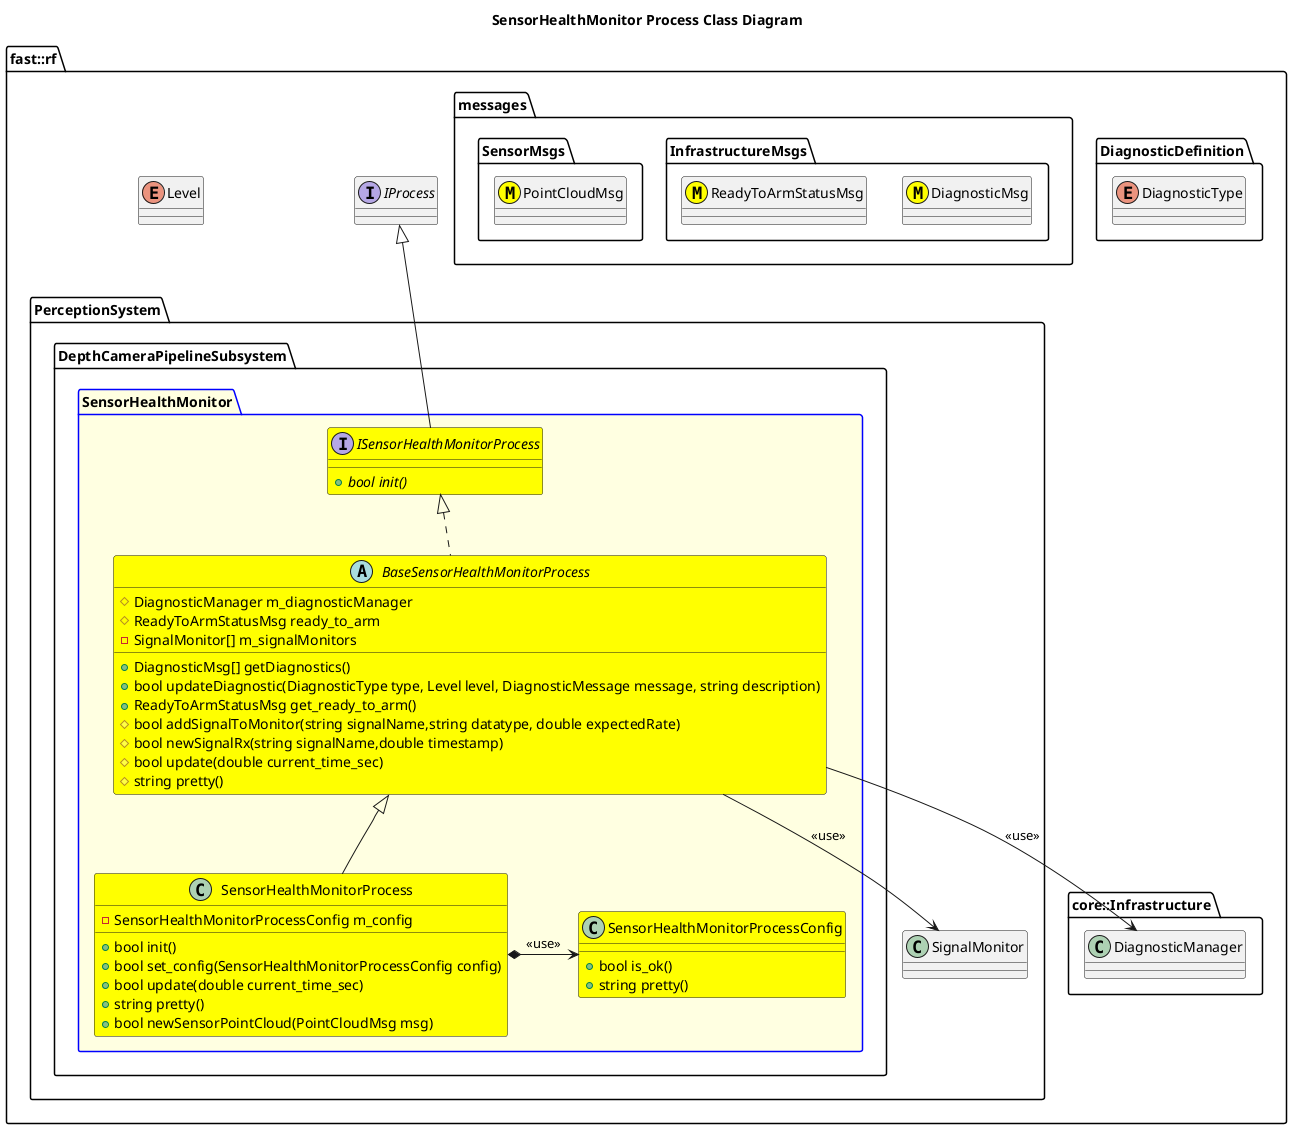
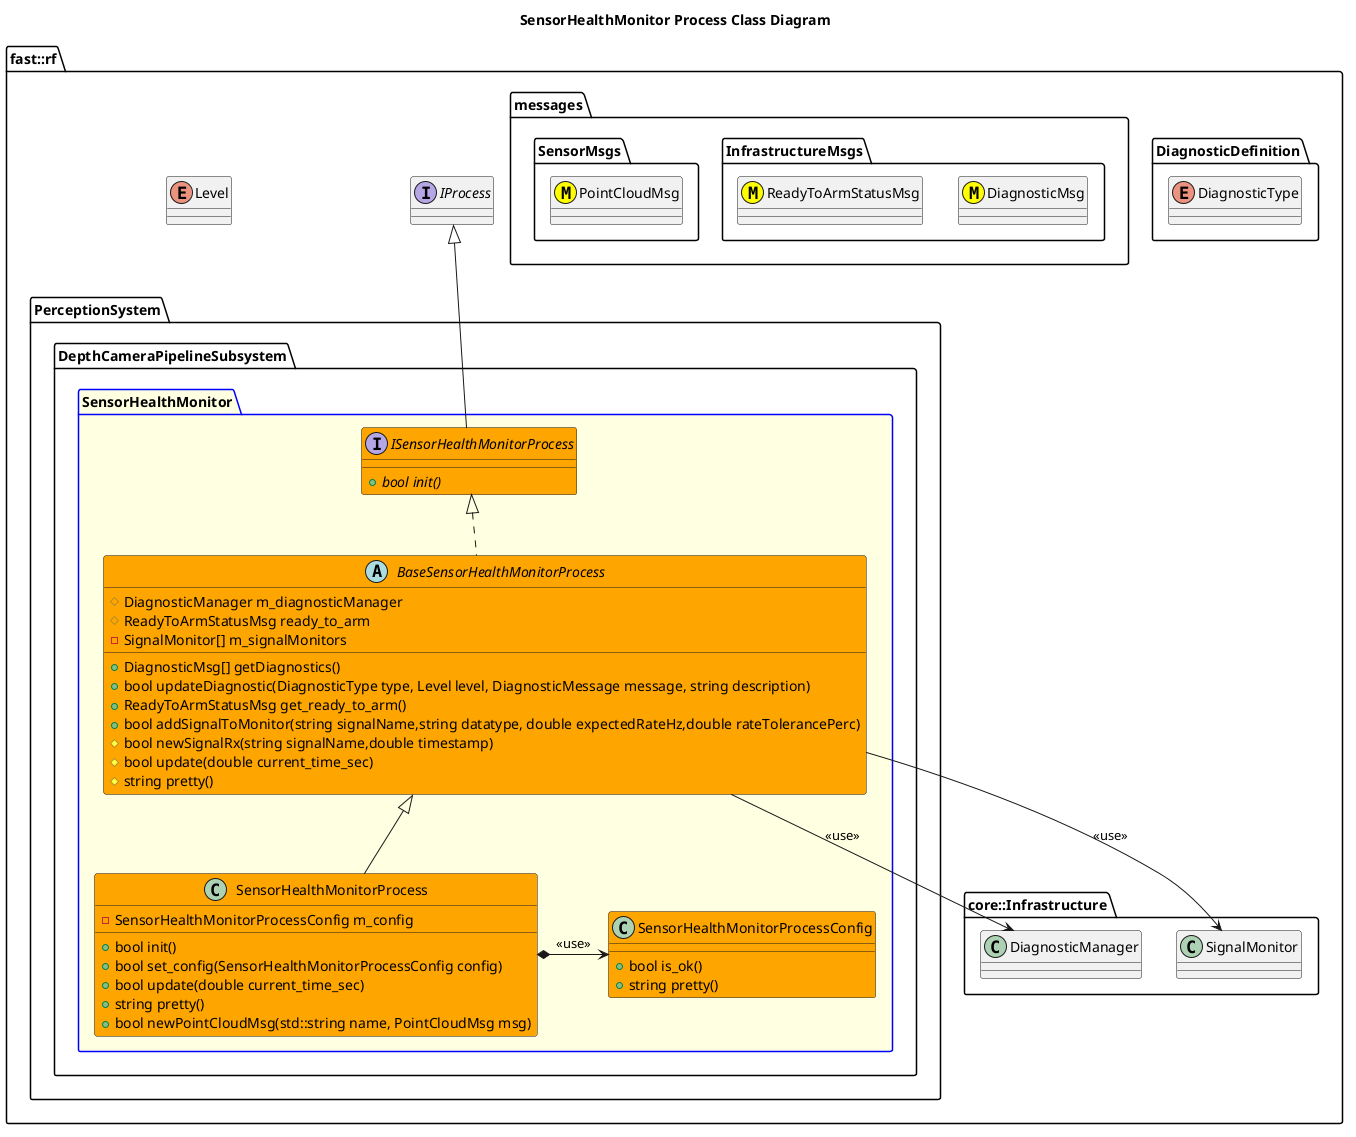
Updates

diff --git a/Systems/Perception/Subsystems/DepthCameraPipeline/Processes/SensorHealthMonitor/src/BaseSensorHealthMonitorProcess.cpp b/Systems/Perception/Subsystems/DepthCameraPipeline/Processes/SensorHealthMonitor/src/BaseSensorHealthMonitorProcess.cpp
@@ -16,13 +16,35 @@ namespace fast::rf::PerceptionSystem::DepthCameraPipelineSubsystem::SensorHealth
         } else {
             m_readyToArm.ready_to_arm = false;
         }
-
+        for (auto& signalMonitor : m_signalMonitors) {
+            signalMonitor.second.update(currentTimeSec);
+            auto status = signalMonitor.second.getStatus();
+            for (auto subSignal : status.subSignalStatus) {
+                m_diagnosticManager.updateDiagnostic(subSignal.second.diagnosticType, subSignal.second.level,
+                                                     subSignal.second.diagnosticMessage, "Signal Health");
+            }
+        }
         return true;
     }
     bool BaseSensorHealthMonitorProcess::initializeDiagnostics(
         std::vector<fast::rf::DiagnosticDefinition::DiagnosticType> diagnosticTypes) {
         bool status = m_diagnosticManager.initializeDiagnostics(diagnosticTypes);
         return status;
+    }
+    bool BaseSensorHealthMonitorProcess::addSignalToMonitor(std::string signalName, std::string datatype,
+                                                            double expectedRateHz, double rateTolerancePerc) {
+        fast::rf::core::infrastructure::SignalMonitor signal(signalName, datatype, expectedRateHz, rateTolerancePerc);
+        std::size_t before = m_signalMonitors.size();
+        m_signalMonitors[signalName] = signal;
+        std::size_t after = m_signalMonitors.size();
+        if (after > before) {
+            return true;
+        }
+        return false;
+    }
+
+    bool BaseSensorHealthMonitorProcess::newSignalRx(std::string signalName, double timestamp) {
+        return m_signalMonitors[signalName].newData(timestamp);
     }
     std::string BaseSensorHealthMonitorProcess::pretty() {
         std::string str = "\n---SensorHealthMonitor---\n";
@@ -35,7 +57,13 @@ namespace fast::rf::PerceptionSystem::DepthCameraPipelineSubsystem::SensorHealth
                "\n";
         str += "\tT: " + std::to_string(m_currentTimeSec) + "\n";
         str += "\tReady To Arm: " + std::to_string(m_readyToArm.ready_to_arm) + "\n";
-        str += m_diagnosticManager.pretty();
+        str += m_diagnosticManager.pretty() + "\n";
+        str += "Monitored Signals: " + std::to_string(m_signalMonitors.size()) + "\n";
+        uint16_t counter = 0;
+        for (auto signalMonitor : m_signalMonitors) {
+            str += "[" + std::to_string(counter) + "/" + std::to_string(m_signalMonitors.size()) + "] " +
+                   signalMonitor.second.pretty() + "\n";
+        }
 
         return str;
     }

diff --git a/Systems/Perception/Subsystems/DepthCameraPipeline/Processes/SensorHealthMonitor/include/BaseSensorHealthMonitorProcess.hpp b/Systems/Perception/Subsystems/DepthCameraPipeline/Processes/SensorHealthMonitor/include/BaseSensorHealthMonitorProcess.hpp
@@ -11,7 +11,9 @@
 #pragma once
 #include <ISensorHealthMonitorProcess.hpp>
 #include <Infrastructure/DiagnosticManager/DiagnosticManager.hpp>
+#include <Infrastructure/SignalMonitor/SignalMonitor.hpp>
 #include <RobotFrameworkDefinitions.hpp>
+#include <map>
 #include <vector>
 namespace fast::rf::PerceptionSystem::DepthCameraPipelineSubsystem::SensorHealthMonitor {
     /**
@@ -46,6 +48,9 @@ namespace fast::rf::PerceptionSystem::DepthCameraPipelineSubsystem::SensorHealth
          * @return fast::rf::messages::InfrastructureMsgs::ReadyToArmStatusMsg
          */
         fast::rf::messages::InfrastructureMsgs::ReadyToArmStatusMsg get_ready_to_arm() { return m_readyToArm; }
+
+        bool addSignalToMonitor(std::string signalName, std::string datatype, double expectedRateHz,
+                                double rateTolerancePerc);
 
        protected:
         /**
@@ -100,6 +105,8 @@ namespace fast::rf::PerceptionSystem::DepthCameraPipelineSubsystem::SensorHealth
 
         bool initializeDiagnostics(std::vector<fast::rf::DiagnosticDefinition::DiagnosticType> diagnostic_types);
 
+        bool newSignalRx(std::string signalName, double timestamp);
+
         uint8_t m_systemId{0};
         uint8_t m_subSystemId{0};
         uint8_t m_processId{0};
@@ -107,5 +114,8 @@ namespace fast::rf::PerceptionSystem::DepthCameraPipelineSubsystem::SensorHealth
         fast::rf::core::infrastructure::DiagnosticManager
             m_diagnosticManager;  //!< Entity responsible for managing diagnostics.
         fast::rf::messages::InfrastructureMsgs::ReadyToArmStatusMsg m_readyToArm;  //!< Ready to Arm object
+
+       private:
+        std::map<std::string, fast::rf::core::infrastructure::SignalMonitor> m_signalMonitors;
     };
 }  // namespace fast::rf::PerceptionSystem::DepthCameraPipelineSubsystem::SensorHealthMonitor

diff --git a/Systems/Perception/Subsystems/DepthCameraPipeline/Processes/SensorHealthMonitor/src/SensorHealthMonitorProcess.cpp b/Systems/Perception/Subsystems/DepthCameraPipeline/Processes/SensorHealthMonitor/src/SensorHealthMonitorProcess.cpp
@@ -4,7 +4,11 @@
  */
 #include <SensorHealthMonitorProcess.hpp>
 namespace fast::rf::PerceptionSystem::DepthCameraPipelineSubsystem::SensorHealthMonitor {
-
+    bool SensorHealthMonitorProcess::newPointCloudMsg(std::string name,
+                                                      fast::rf::messages::SensorMsgs::PointCloudMsg msg) {
+        bool status = newSignalRx(name, msg.time_stamp);
+        return status;
+    }
     bool SensorHealthMonitorProcess::init() {
         bool status = BaseSensorHealthMonitorProcess::init();
         if (status == false) {
@@ -12,11 +16,15 @@ namespace fast::rf::PerceptionSystem::DepthCameraPipelineSubsystem::SensorHealth
         }
         std::vector<fast::rf::DiagnosticDefinition::DiagnosticType> diagnosticTypes;
         diagnosticTypes.push_back(fast::rf::DiagnosticDefinition::DiagnosticType::SOFTWARE);
-        // Add more as needed
+        diagnosticTypes.push_back(fast::rf::DiagnosticDefinition::DiagnosticType::SENSORS);
+        diagnosticTypes.push_back(fast::rf::DiagnosticDefinition::DiagnosticType::TIMING);
         status = m_diagnosticManager.initializeDiagnostics(diagnosticTypes);
         return status;
     }
     bool SensorHealthMonitorProcess::update(double currentTimeSec) {
+        m_diagnosticManager.updateDiagnostic(fast::rf::DiagnosticDefinition::DiagnosticType::SOFTWARE,
+                                             fast::rf::Level::NOERROR,
+                                             fast::rf::DiagnosticDefinition::DiagnosticMessage::NOERROR, "No Error");
         bool status = BaseSensorHealthMonitorProcess::update(currentTimeSec);
         if (status == false) {
             return false;

diff --git a/Systems/Perception/Subsystems/DepthCameraPipeline/Processes/SensorHealthMonitor/src/test/test_sensorHealthMonitorProcess.cpp b/Systems/Perception/Subsystems/DepthCameraPipeline/Processes/SensorHealthMonitor/src/test/test_sensorHealthMonitorProcess.cpp
@@ -18,7 +18,6 @@ TEST(SensorHealthMonitorProcess, Tests) {
     auto diagnostics = SUT.getDiagnostics();
     ASSERT_GT(diagnostics.size(), 0);
     for (auto diagnostic : diagnostics) {
-        // ASSERT_NE(diagnostic.diagnosticMessage, fast::rf::DiagnosticDefinition::DiagnosticMessage::INITIALIZING);
         ASSERT_LT(diagnostic.level, fast::rf::Level::WARN);
     }
     ASSERT_TRUE(SUT.get_ready_to_arm().ready_to_arm);
@@ -28,4 +27,29 @@ TEST(SensorHealthMonitorProcess, ConversionTests) {
     SensorHealthMonitorProcess SUT;
     ASSERT_TRUE(SUT.init());
     ASSERT_GT(SUT.pretty().size(), 0);
+}
+
+TEST(SensorHealthMonitorProcess, SignalHealth) {
+    SensorHealthMonitorProcess SUT;
+    ASSERT_TRUE(SUT.init());
+    ASSERT_GT(SUT.pretty().size(), 0);
+    double expectedSignalRate = 10.0;
+    std::string signalName = "test_signal";
+    ASSERT_TRUE(SUT.addSignalToMonitor(signalName, "test_datatype", expectedSignalRate, 90.0));
+    double runTime = 10.0;
+    double dt = 1.0 / expectedSignalRate;
+    double currentTime = 0.0;
+    while (currentTime < runTime) {
+        fast::rf::messages::SensorMsgs::PointCloudMsg msg;
+        msg.time_stamp = currentTime;
+        ASSERT_TRUE(SUT.newPointCloudMsg(signalName, msg));
+        ASSERT_TRUE(SUT.update(currentTime));
+        currentTime += dt;
+    }
+    auto diagnostics = SUT.getDiagnostics();
+    ASSERT_GT(diagnostics.size(), 0);
+    for (auto diagnostic : diagnostics) {
+        ASSERT_NE(diagnostic.diagnosticMessage, fast::rf::DiagnosticDefinition::DiagnosticMessage::INITIALIZING);
+        ASSERT_LT(diagnostic.level, fast::rf::Level::WARN);
+    }
 }

diff --git a/include/Infrastructure/SignalMonitor/SignalMonitor.hpp b/include/Infrastructure/SignalMonitor/SignalMonitor.hpp
@@ -42,6 +42,7 @@ namespace fast::rf::core::infrastructure {
          *
          */
         struct SignalStatus {
+            SignalStatus() = default;
             fast::rf::Level level{fast::rf::Level::UNKNOWN};
             std::map<fast::rf::DiagnosticDefinition::DiagnosticType, SubSignalStatus> subSignalStatus;
             std::string pretty() {
@@ -54,7 +55,7 @@ namespace fast::rf::core::infrastructure {
         };
         static constexpr uint16_t INITIAL_SAMPLES_TO_ACCUMULATE =
             10;  //!< How many samples to collect before making a determination if the signal is ok or not.
-
+        SignalMonitor() = default;
         /**
          * @brief Construct a new Signal Monitor object
          *

diff --git a/Systems/Perception/Subsystems/DepthCameraPipeline/Processes/SensorHealthMonitor/include/SensorHealthMonitorProcess.hpp b/Systems/Perception/Subsystems/DepthCameraPipeline/Processes/SensorHealthMonitor/include/SensorHealthMonitorProcess.hpp
@@ -11,6 +11,7 @@
 #pragma once
 
 #include <BaseSensorHealthMonitorProcess.hpp>
+#include <PointCloudMsg.hpp>
 
 namespace fast::rf::PerceptionSystem::DepthCameraPipelineSubsystem::SensorHealthMonitor {
 
@@ -68,6 +69,8 @@ namespace fast::rf::PerceptionSystem::DepthCameraPipelineSubsystem::SensorHealth
          * @return std::string
          */
         std::string pretty() override;
+
+        bool newPointCloudMsg(std::string name, fast::rf::messages::SensorMsgs::PointCloudMsg msg);
 
        private:
         SensorHealthMonitorProcessConfig m_config;

diff --git a/Systems/Perception/Subsystems/DepthCameraPipeline/Processes/SensorHealthMonitor/doc/Process-SensorHealthMonitor.md b/Systems/Perception/Subsystems/DepthCameraPipeline/Processes/SensorHealthMonitor/doc/Process-SensorHealthMonitor.md
@@ -70,5 +70,9 @@ Additionally the Sensor Health Monitor can look holistically at all the sensor d
 ![](puml/SensorHealthMonitorProcessClassDiagram.png)
 
 # Usage Instructions
+```cmake
+```
 
+```cpp
+```
 # Validation
